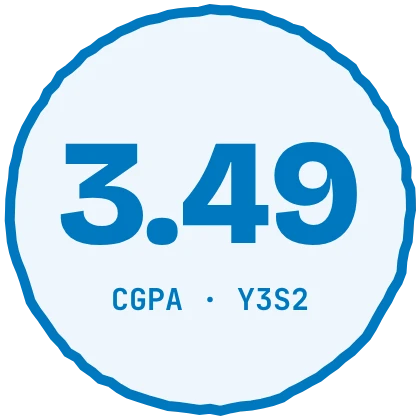
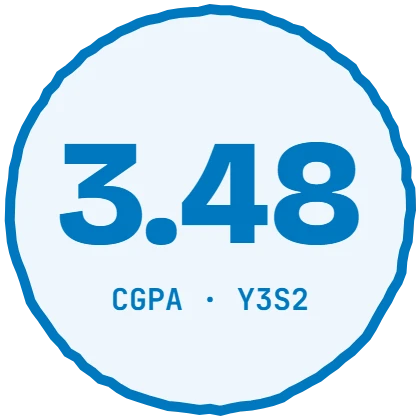
Update CGPA to reflect accurate academic standing in portfolio and related assets

diff --git a/tools/bake/manifest.js b/tools/bake/manifest.js
@@ -483,7 +483,7 @@ export const TEXTURES = {
   'sticker-heart': { make: () => stickerCanvas('heart', 220, '#ff5fa2', { seed: 2 }) },
   'sticker-sparkle': { make: () => stickerCanvas('sparkle', 220, '#3d7bf0', { seed: 3 }) },
   'sticker-star-pink': { make: () => stickerCanvas('star', 220, '#ff5fa2', { seed: 4 }) },
-  'badge-cgpa': { make: () => badge('3.49', 'cgpa · y3s2', { ink: '#0078bf', paper: '#eef6fc' }) },
+  'badge-cgpa': { make: () => badge('3.48', 'cgpa · y3s2', { ink: '#0078bf', paper: '#eef6fc' }) },
   'badge-top5': { make: () => badge('TOP 5', 'uriis 2026', { bigFont: '800 112px "Bricolage Grotesque"' }) },
   'ticket-admit': {
     make: () => ticketStub({

diff --git a/site/index.html b/site/index.html
@@ -56,7 +56,7 @@
       <p class="lead">I’m a final-year Computer Science student at Swinburne University of Technology Sarawak. I lead teams and build software systems from the data through to deployment.</p>
     </div>
     <div class="block" data-block="about-goal">
-      <p class="facts mono">Bachelor of Computer Science<br>2024 — now · year 3, semester 2 · CGPA 3.49</p>
+      <p class="facts mono">Bachelor of Computer Science<br>2024 — now · year 3, semester 2 · CGPA 3.48</p>
       <p class="lead">Next, I want a <strong>full-stack developer role</strong>, working across the frontend, the backend and the database.</p>
     </div>
   </section>

diff --git a/PORTFOLIO.md b/PORTFOLIO.md
@@ -1,6 +1,6 @@
 # Project Portfolio: You Wee Liew
 
-Final-year Bachelor of Computer Science student, Swinburne University of Technology Sarawak (CGPA 3.49). Looking for a full-stack developer role.
+Final-year Bachelor of Computer Science student, Swinburne University of Technology Sarawak (CGPA 3.48). Looking for a full-stack developer role.
 
 - Email: liewyouwee123@gmail.com
 - GitHub: https://github.com/Uwe1209
